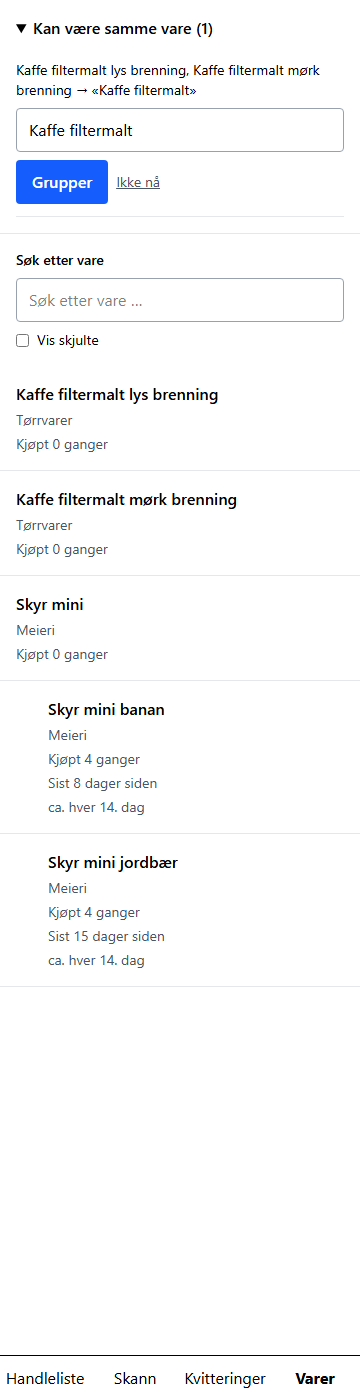
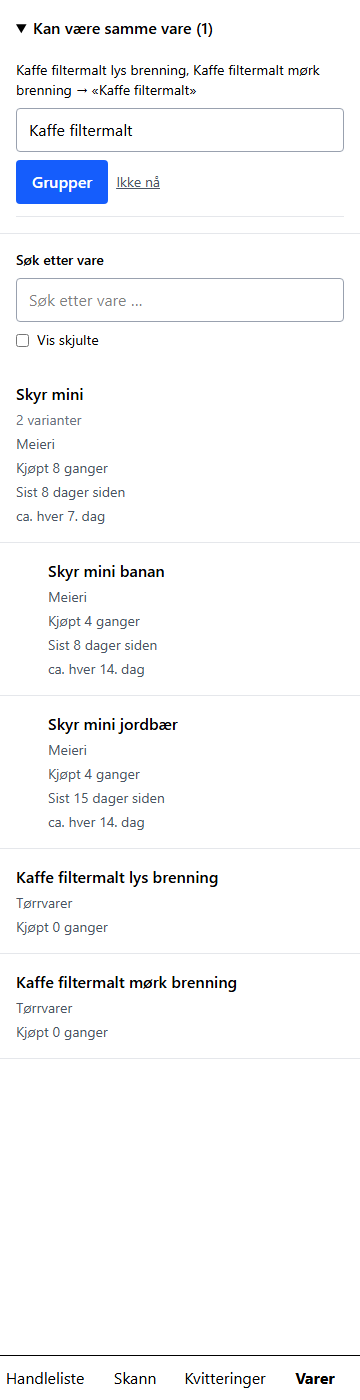
fix(products): fold a parent's summary stats; map every variant name (T40 review F1/F2)
F1: the propose parser's variant-name-to-parent rewrite only ran when
the model sent productId: null, but the model is only ever given the
parent's id, so productId: parentId with the variant's own name is the
likelier shape a model recovers from context. The lookup now runs for
every item regardless of what productId came with it.

F2: GET /api/products and topProducts reported a parent's own lines as
its timesBought/lastBought/medianIntervalDays, so a group ranked below
its own variants and, once the parent had lines of its own, a habit
could be counted twice. loadProductStatsMap now takes a parentOf map
and folds a parent's entry (its own purchases plus every child's, even
with none of its own) while a child keeps its own; topProducts leaves
children out entirely. GET /api/products/:id's own top-level fields are
unchanged (still the parent's own lines) since groupStats already
carries the folded total there. The products page shows "n varianter"
under a parent's name.

Retook docs/reviews/screenshots/T40/03-group-candidates.png: the parent
now ranks first with its folded count instead of "Kjøpt 0 ganger".

Claude-Session: https://claude.ai/code/session_01LbcodsQxsNDR6cS1v9zKWj

diff --git a/src/server/domain/productStats.ts b/src/server/domain/productStats.ts
@@ -37,8 +37,16 @@ export function computeProductStats(purchaseDates: string[]): ProductStats {
   };
 }
 
-/** One query for every product's purchase dates, for a product list instead of one query each. */
-export function loadProductStatsMap(db: AppDatabase): Map<number, ProductStats> {
+/**
+ * One query for every product's purchase dates, for a product list instead of one query each.
+ * With `parentOf` (T40, ADR-0019), a parent's entry is the group's folded stats — its own
+ * purchases plus every child's, even when the parent has none of its own — while a child keeps
+ * its own entry unchanged; an ungrouped product is unaffected either way.
+ */
+export function loadProductStatsMap(
+  db: AppDatabase,
+  parentOf: ReadonlyMap<number, number> = new Map(),
+): Map<number, ProductStats> {
   const rows = db
     .select({ productId: receiptLines.productId, date: receipts.purchasedAt })
     .from(receiptLines)
@@ -47,18 +55,30 @@ export function loadProductStatsMap(db: AppDatabase): Map<number, ProductStats> 
     .all();
 
   const datesByProduct = new Map<number, string[]>();
+  const foldedDatesByFoldKey = new Map<number, string[]>();
   for (const row of rows) {
     if (row.productId === null) {
       continue;
     }
+    const date = row.date as string;
     const dates = datesByProduct.get(row.productId) ?? [];
-    dates.push(row.date as string);
+    dates.push(date);
     datesByProduct.set(row.productId, dates);
+
+    const foldKey = parentOf.get(row.productId) ?? row.productId;
+    const foldedDates = foldedDatesByFoldKey.get(foldKey) ?? [];
+    foldedDates.push(date);
+    foldedDatesByFoldKey.set(foldKey, foldedDates);
   }
 
   const statsByProduct = new Map<number, ProductStats>();
   for (const [productId, dates] of datesByProduct) {
     statsByProduct.set(productId, computeProductStats(dates));
+  }
+  // Overwrites a parent's own-only entry above with the group's folded one (and adds an entry for
+  // a parent with no purchases of its own); a child is never a fold key, so its own entry stands.
+  for (const [foldKey, dates] of foldedDatesByFoldKey) {
+    statsByProduct.set(foldKey, computeProductStats(dates));
   }
   return statsByProduct;
 }

diff --git a/src/server/routes/products.ts b/src/server/routes/products.ts
@@ -1,5 +1,5 @@
 import type { FastifyInstance } from 'fastify';
-import { and, desc, eq, inArray, like } from 'drizzle-orm';
+import { and, desc, eq, inArray } from 'drizzle-orm';
 import { z } from 'zod';
 import {
   attachProductParentSchema,
@@ -162,26 +162,27 @@ export default async function productsRoutes(app: FastifyInstance): Promise<void
   app.get('/api/products', async (request) => {
     const query = listQuerySchema.parse(request.query);
 
-    const conditions = [
-      query.q !== undefined
-        ? like(products.nameNormalized, `%${normalizeText(query.q)}%`)
-        : undefined,
-      query.includeSuppressed === 'true' ? undefined : eq(products.suppressed, 0),
-    ].filter((condition) => condition !== undefined);
+    // Unfiltered, then filtered in JS (household scale, at most two SQL statements either way):
+    // folding a parent's stats needs every child's id system-wide, not only the ones that happen
+    // to also match the current search text (T40, ADR-0019, F2).
+    const allRows = app.db.select().from(products).all();
+    const normalizedQuery = query.q !== undefined ? normalizeText(query.q) : undefined;
+    const includeSuppressed = query.includeSuppressed === 'true';
+    const rows = allRows.filter(
+      (row) =>
+        (includeSuppressed || row.suppressed === 0) &&
+        (normalizedQuery === undefined || row.nameNormalized.includes(normalizedQuery)),
+    );
 
-    const rows = app.db
-      .select()
-      .from(products)
-      .where(conditions.length > 0 ? and(...conditions) : undefined)
-      .all();
-
-    const statsByProduct = loadProductStatsMap(app.db);
+    const parentOf = new Map<number, number>();
     const variantCounts = new Map<number, number>();
-    for (const row of rows) {
+    for (const row of allRows) {
       if (row.parentId !== null) {
+        parentOf.set(row.id, row.parentId);
         variantCounts.set(row.parentId, (variantCounts.get(row.parentId) ?? 0) + 1);
       }
     }
+    const statsByProduct = loadProductStatsMap(app.db, parentOf);
 
     const sorted = rows
       .map((row) =>

diff --git a/test/server/products.test.ts b/test/server/products.test.ts
@@ -197,6 +197,52 @@ describe('GET /api/products', () => {
     expect(response.statusCode).toBe(200);
     expect(statements.length).toBeLessThanOrEqual(2);
   });
+
+  it("shows a parent with the group's folded stats and a child with its own (T40 F2)", async () => {
+    app = createTestApp();
+    cookie = await loginCookie(app);
+    const parent = insertProduct('Skyr mini');
+    const jordbaer = insertProduct('Skyr mini jordbær', { parentId: parent });
+    const banan = insertProduct('Skyr mini banan', { parentId: parent });
+    const r1 = insertReceipt('2026-08-01');
+    insertLine(r1, jordbaer);
+    const r2 = insertReceipt('2026-08-08');
+    insertLine(r2, banan);
+
+    const response = await app.inject({ method: 'GET', url: '/api/products', headers: { cookie } });
+
+    const body = response.json();
+    expect(body.find((p: { id: number }) => p.id === parent)).toMatchObject({
+      timesBought: 2,
+      lastBought: '2026-08-08',
+    });
+    expect(body.find((p: { id: number }) => p.id === jordbaer)).toMatchObject({
+      timesBought: 1,
+      lastBought: '2026-08-01',
+    });
+    expect(body.find((p: { id: number }) => p.id === banan)).toMatchObject({
+      timesBought: 1,
+      lastBought: '2026-08-08',
+    });
+  });
+
+  it("folds a parent's stats even when a matching search excludes its children (T40 F2)", async () => {
+    app = createTestApp();
+    cookie = await loginCookie(app);
+    const parent = insertProduct('Skyr mini');
+    // Deliberately unrelated to the parent's name, so a search for the parent's name excludes it.
+    const child = insertProduct('Fruktyoghurt banan', { parentId: parent });
+    const r1 = insertReceipt('2026-08-01');
+    insertLine(r1, child);
+
+    const response = await app.inject({
+      method: 'GET',
+      url: `/api/products?${new URLSearchParams({ q: 'Skyr mini' }).toString()}`,
+      headers: { cookie },
+    });
+
+    expect(response.json()).toEqual([expect.objectContaining({ id: parent, timesBought: 1 })]);
+  });
 });
 
 describe('GET /api/products/:id', () => {

diff --git a/test/server/llm/proposeList.test.ts b/test/server/llm/proposeList.test.ts
@@ -259,6 +259,36 @@ describe('runProposal', () => {
     expect(result.items).toEqual([expect.objectContaining({ productId: 1, name: 'Skyr mini' })]);
   });
 
+  it('maps a variant name to the parent name even when productId is already the parent (F1)', async () => {
+    const llm = new FakeLlmClient([
+      completion([{ ...validItem, productId: 1, name: 'Skyr mini jordbær' }]),
+    ]);
+    const ctx = context({
+      products: [
+        product({ id: 1, name: 'Skyr mini', variants: ['Skyr mini jordbær', 'Skyr mini banan'] }),
+      ],
+    });
+
+    const result = await runProposal(llm, ctx, 9);
+
+    expect(result.items).toEqual([expect.objectContaining({ productId: 1, name: 'Skyr mini' })]);
+  });
+
+  it('leaves a group named directly (not by a variant name) unchanged', async () => {
+    const llm = new FakeLlmClient([
+      completion([{ ...validItem, productId: 1, name: 'Skyr mini' }]),
+    ]);
+    const ctx = context({
+      products: [
+        product({ id: 1, name: 'Skyr mini', variants: ['Skyr mini jordbær', 'Skyr mini banan'] }),
+      ],
+    });
+
+    const result = await runProposal(llm, ctx, 9);
+
+    expect(result.items).toEqual([expect.objectContaining({ productId: 1, name: 'Skyr mini' })]);
+  });
+
   it('filters a variant name like its parent when the parent is on the list (T40)', async () => {
     const llm = new FakeLlmClient([
       completion([{ ...validItem, productId: null, name: 'Skyr mini jordbær' }]),

diff --git a/test/server/stats.test.ts b/test/server/stats.test.ts
@@ -208,6 +208,26 @@ describe('GET /api/stats/summary', () => {
     expect(response.json().topProducts).toHaveLength(10);
   });
 
+  it('counts a group once with its folded stats, leaving both variants out (T40 F2)', async () => {
+    app = createTestApp({ now: () => new Date(NOW) });
+    cookie = await loginCookie(app);
+    const parent = insertProduct('Skyr mini');
+    const jordbaer = insertProduct('Skyr mini jordbær', { parentId: parent });
+    const banan = insertProduct('Skyr mini banan', { parentId: parent });
+    insertLine(insertReceipt({ purchasedAt: '2026-01-05', totalOre: 100 }), jordbaer);
+    insertLine(insertReceipt({ purchasedAt: '2026-01-12', totalOre: 100 }), banan);
+
+    const response = await app.inject({
+      method: 'GET',
+      url: '/api/stats/summary?months=1',
+      headers: { cookie },
+    });
+
+    const topProducts = response.json().topProducts as { id: number }[];
+    expect(topProducts.map((product) => product.id)).toEqual([parent]);
+    expect(topProducts[0]).toMatchObject({ timesBought: 2, lastBought: '2026-01-12' });
+  });
+
   it('sums proposals, proposed items and accepted items across every proposal (T37)', async () => {
     app = createTestApp({ now: () => new Date(NOW) });
     cookie = await loginCookie(app);

diff --git a/src/server/routes/stats.ts b/src/server/routes/stats.ts
@@ -130,15 +130,20 @@ export default async function statsRoutes(
     // All-time, not scoped to `months`: Product's own fields already mean all-time everywhere
     // else in the app (the products list, the product page), so a second, window-scoped
     // `timesBought` here would show a different number for the same product depending on screen.
-    const statsByProduct = loadProductStatsMap(app.db);
     const allProducts = app.db.select().from(products).all();
+    const parentOf = new Map<number, number>();
     const variantCounts = new Map<number, number>();
     for (const product of allProducts) {
       if (product.parentId !== null) {
+        parentOf.set(product.id, product.parentId);
         variantCounts.set(product.parentId, (variantCounts.get(product.parentId) ?? 0) + 1);
       }
     }
+    const statsByProduct = loadProductStatsMap(app.db, parentOf);
+    // A variant is left out (T40, ADR-0019, F2): its purchases already count under its parent's
+    // folded stats, so a child's own line here would count the same habit twice.
     const topProducts = allProducts
+      .filter((product) => product.parentId === null)
       .map((product) =>
         toProduct(
           product,

diff --git a/src/client/pages/ProductsPage.tsx b/src/client/pages/ProductsPage.tsx
@@ -14,6 +14,10 @@ function timesBoughtLabel(count: number): string {
   return count === 1 ? 'Kjøpt 1 gang' : `Kjøpt ${count} ganger`;
 }
 
+function variantCountLabel(count: number): string {
+  return count === 1 ? '1 variant' : `${count} varianter`;
+}
+
 function candidateKey(productIds: number[]): string {
   return [...productIds].sort((a, b) => a - b).join(',');
 }
@@ -55,6 +59,9 @@ function ProductRow({
             </span>
           )}
         </div>
+        {product.variantCount > 0 && (
+          <span className="text-sm text-gray-500">{variantCountLabel(product.variantCount)}</span>
+        )}
         <span className="text-sm text-gray-600">{product.category ?? 'Annet'}</span>
         {parentName !== null && !indented && (
           <span className="text-sm text-gray-500">variant av {parentName}</span>

diff --git a/test/client/ProductsPage.test.tsx b/test/client/ProductsPage.test.tsx
@@ -182,6 +182,18 @@ describe('ProductsPage', () => {
   });
 
   describe('product groups (T40)', () => {
+    it("shows a parent's variant count under its name (F2)", () => {
+      mockProducts([
+        product({ id: 1, name: 'Skyr mini', variantCount: 2, timesBought: 8 }),
+        product({ id: 2, name: 'Skyr mini banan', parentId: 1 }),
+      ]);
+
+      renderProductsPage();
+
+      expect(screen.getByText('2 varianter')).toBeInTheDocument();
+      expect(screen.queryByText('1 variant')).not.toBeInTheDocument();
+    });
+
     it('indents a child directly under its parent when both are in the result', () => {
       mockProducts([
         product({ id: 1, name: 'Skyr mini', variantCount: 1 }),

diff --git a/src/server/llm/proposeList.ts b/src/server/llm/proposeList.ts
@@ -141,12 +141,10 @@ export async function runProposal(
   for (const item of parsed.data.items) {
     let productId = item.productId;
     let name = item.name;
-    if (productId === null) {
-      const parentId = childNameToParentId.get(normalizeText(name));
-      if (parentId !== undefined) {
-        productId = parentId;
-        name = productsById.get(parentId)?.name ?? name;
-      }
+    const parentId = childNameToParentId.get(normalizeText(name));
+    if (parentId !== undefined) {
+      productId = parentId;
+      name = productsById.get(parentId)?.name ?? name;
     }
 
     if (productId !== null && !productsById.has(productId)) {

diff --git a/docs/architecture.md b/docs/architecture.md
@@ -365,7 +365,8 @@ Definitions:
 - `receipts.shopping_list_id` links a receipt to the list it was bought for (T39, ADR-0018); several receipts can belong to one list, a receipt to at most one list. Set automatically by `findTripList` (`src/server/domain/tripLink.ts`) when a receipt reaches `done` or a list is completed, and overridable on the receipt page. The outcome (`Trip`, `src/server/domain/trip.ts`) is computed from the list's items and the linked receipts' lines on every read, never stored.
 - `products.parent_id` groups a product's variants under it (T40, ADR-0019), depth exactly one: a product with a parent cannot itself be a parent, and a product with children cannot get a parent, both enforced in the route handlers.
   A parent is an ordinary product and may have receipt lines of its own.
-  `foldHistories` (`src/server/domain/productGroups.ts`) sums children's purchases into the parent's `ProductHistory` before the suggestion engine, refresh, dismissals or the AI proposal context see it; a receipt, its lines, aliases and a product's own stats always keep the variant.
+  `foldHistories` (`src/server/domain/productGroups.ts`) sums children's purchases into the parent's `ProductHistory` before the suggestion engine, refresh, dismissals or the AI proposal context see it; a receipt, its lines, aliases and `ProductDetail.purchases` always keep the variant.
+  A parent's summary stats (`timesBought`, `lastBought`, `medianIntervalDays` on `Product`, in the products list and `topProducts`) are the group's folded total, not the parent's own lines, so the group ranks by its combined habit instead of under its own variants and a habit is not counted twice; a child keeps its own summary stats (T40 review F2).
   Grouping and ungrouping happen only through `POST`/`DELETE /api/products/:id/parent` and `POST /api/product-groups`, never automatically; deleting a parent (through merge) sets its children's `parent_id` back to null.
 - `PRODUCT_CATEGORIES` is the fixed list: `Frukt og grønt`, `Meieri`, `Kjøtt og fisk`, `Brød og bakevarer`, `Tørrvarer`, `Frossen`, `Drikke`, `Snacks`, `Husholdning`, `Hygiene`, `Annet`.
 - Migrations run with `foreign_keys` off and `PRAGMA foreign_key_check` after, because drizzle's SQLite table recreates would otherwise cascade-delete child rows.
@@ -611,6 +612,8 @@ type ReceiptDetail = ReceiptSummary & {
 
 type Product = {
   id: number; name: string; category: string | null; suppressed: boolean;
+  // For a parent (variantCount > 0), these three are the group's folded stats, not the parent's
+  // own lines; a child (parentId set) reports its own, same as an ungrouped product (T40 review F2).
   timesBought: number; lastBought: string | null; medianIntervalDays: number | null;
   parentId: number | null; variantCount: number;
 };
@@ -668,7 +671,7 @@ type ShoppingListProposal = {
 | `PATCH /api/receipt-lines/:id` | `{ productId }`, `{ newProductName, category? }` or `{ totalOre?, quantity?, unitPriceOre?, kind? }` (at least one field) | `200 ReceiptLine` | The product bodies upsert a user alias and remove `UNMATCHED_LINES` from the receipt when no item line has `product_id IS NULL`; `MATCHING_FAILED` is left alone. The fields body recomputes both `TOTAL_MISMATCH` and `UNMATCHED_LINES` the same way, leaves every other warning alone, and is only accepted when the receipt is `done` (else `409`); `totalOre` must be at most 0 for a `discount` and at least 0 otherwise, checked against the resulting kind; changing `kind` away from `item` clears `product_id` and `match_source`, changing it to `item` leaves `product_id` null. |
 | `DELETE /api/receipt-lines/:id` | — | `204` | Only when the receipt is `done`, else `409`. `line_no` of the remaining lines is left as is. Recomputes `TOTAL_MISMATCH` and `UNMATCHED_LINES` the same way the fields `PATCH` does. |
 | `GET /api/products?q=&includeSuppressed=` | — | `200 Product[]` | `q` filters on `name_normalized` contains `normalizeText(q)`. Ordered by `timesBought` desc, then name; a child sorts directly after its parent when both are in the result (T40). |
-| `GET /api/products/:id` | — | `200 ProductDetail` | `parent`/`variants`/`groupStats` T40; `groupStats` is `null` unless the product is a parent. |
+| `GET /api/products/:id` | — | `200 ProductDetail` | `parent`/`variants`/`groupStats` T40; `groupStats` is `null` unless the product is a parent. Unlike the products list and `topProducts`, `ProductDetail`'s own top-level `timesBought`/`lastBought`/`medianIntervalDays` stay the product's own lines even for a parent — `groupStats` carries the folded total instead, so a parent's page can show both (T40 review F2). |
 | `POST /api/products` | `{ name, category? }` | `201 Product` | `409` on duplicate normalized name. |
 | `PATCH /api/products/:id` | `{ name?, category?, suppressed? }` | `200 Product` | |
 | `POST /api/products/:id/merge` | `{ intoProductId }` | `200 Product` | Returns the target. `400` when ids are equal. Deleting a parent this way (the only delete path for a product with children) sets its former children's `parentId` to `null` (T40). |
@@ -705,8 +708,8 @@ type ShoppingListProposal = {
 | `/scan` | ScanPage | "Ta bilde" (`<input type="file" accept="image/*" capture="environment">`, one photo) and "Velg fra bilder" (same input without `capture`, `multiple`). Every selected file is downscaled and uploaded at once, one after the other in selection order, in a list with per-file state: "Laster opp … 45 %", "Lastet opp", "Allerede skannet" with a link to the existing receipt, or "Feilet: {message}". Below the list, "Skann (1)" or "Skann alle (n)" for every receipt with status `uploaded`; it calls scan for each and navigates to `/receipts/:id` when n is 1, else to `/receipts`. |
 | `/receipts` | ReceiptsPage | List with store, date as `4. sep. · 3 dager siden`, total, status badge and warning count; tap opens the receipt. "Skann" on each `uploaded` row and "Skann alle (n)" above the list. Between the "Skann alle" button and the list, a collapsed `<details>` "Statistikk og historikk" (Phase 2, T23): opened, it fetches `GET /api/stats/summary` and `GET /api/shopping-lists` and shows monthly totals as a plain bar list, "Mest kjøpt, alle kvitteringer" (all-time top 10 products), the shopping list history (week, item count, status, each row linking to its detail page and showing `12 av 14 kjøpt · 5 utenom` when `tripCounts` is set, T39) and, since T37, `AI-forslag` (proposals, proposed, accepted, bought) and `Handleturer` (completed lists, of which with receipt, share of planned items bought, unplanned items per trip, T39) — `aiProposals` has been in the API since T37 but was not rendered anywhere until this task; closed, neither request fires, so the everyday visit costs nothing extra. |
 | `/receipts/:id` | ReceiptPage | While `uploaded`: image thumbnail, "Skann" and "Slett kvittering". While `pending`/`processing`: image thumbnail and `I kø…`/`Leser kvittering…` with the seconds since `updatedAt` (not since the component mounted, T30), ticking, with polling. When `failed`: error, "Prøv igjen" (calls scan) and "Slett kvittering" (T30). When `done`: editable header (store, date, total), a `Handleliste` select under it (`Ingen` and the eight most recent `done` lists as `Uke 37, fullført 7. sep`, saved through `PATCH`, with a note `Knyttes automatisk når datoene stemmer`; when linked, a `Handleliste uke 37` link instead), warning chips (the `POSSIBLE_DUPLICATE` chip links to the other receipt), the receipt image in a sticky, scrollable panel: toggled with `Vis bilde` on a phone, always beside the lines on desktop, tap opens the full image (T35), lines with product picker per item line; each line's amount and kind can be corrected and a line deleted, warnings recompute; "Ferdig" that sets `reviewed`. `Slett kvittering` (`uploaded`/`failed`/`done`) is one shared component: `window.confirm`, toast "Kvitteringen er slettet", navigate to `/receipts`. T39: the select. |
-| `/products` | ProductsPage | Search field, list with times bought, last bought, interval; toggle to show suppressed; a child renders indented under its parent when both are in the result, otherwise with a `variant av …` line under its name; a collapsed `Kan være samme vare (n)` block above the list when `GET /api/products/group-candidates` has candidates, each row naming its members and a suggested group name (editable) with `Grupper` to create the group and `Ikke nå` to hide it (remembered per candidate in `localStorage`, no server state). T40. |
-| `/products/:id` | ProductPage | Rename, category select, "Ikke foreslå" toggle, merge into another product (confirm text now also says `Er det varianter av samme vare, bruk Varegruppe i stedet.`), aliases with delete, purchase history. A `Varegruppe` section between "Ikke foreslå" and "Alias": ungrouped shows `Legg i gruppe…` through the existing `ProductPicker` (choosing a parent attaches; choosing another ungrouped product opens a `Navn på varegruppen` dialog and calls `POST /api/product-groups`; the picker's `Opprett «…»` creates a new parent with this product as its only member); a variant shows `Variant av «<parent>»` as a link and `Fjern fra gruppen`; a parent shows `Varianter (n)` as links with each variant's own count and last-bought date, and the group's folded `groupStats` line, with no `Legg i gruppe`. T40. |
+| `/products` | ProductsPage | Search field, list with times bought, last bought, interval; toggle to show suppressed; a parent additionally shows `n varianter` under its name, and its times-bought line is the group's folded total (T40 review F2); a child renders indented under its parent when both are in the result, otherwise with a `variant av …` line under its name; a collapsed `Kan være samme vare (n)` block above the list when `GET /api/products/group-candidates` has candidates, each row naming its members and a suggested group name (editable) with `Grupper` to create the group and `Ikke nå` to hide it (remembered per candidate in `localStorage`, no server state). T40. |
+| `/products/:id` | ProductPage | Rename, category select, "Ikke foreslå" toggle, merge into another product (confirm text now also says `Er det varianter av samme vare, bruk Varegruppe i stedet.`), aliases with delete, purchase history. A `Varegruppe` section between "Ikke foreslå" and "Alias": ungrouped shows `Legg i gruppe…`, a page-local search-and-pick component (`GroupPicker`, styled like the existing `MergeSearch` on this page rather than reusing `ProductPicker`, which is tied to receipt-line matching) — choosing a parent attaches directly; choosing another ungrouped product opens a `Navn på varegruppen` dialog and calls `POST /api/product-groups`; typing a name with no match offers `Opprett «…»`, creating a new parent with this product as its only member. A variant shows `Variant av «<parent>»` as a link and `Fjern fra gruppen`; a parent shows `Varianter (n)` as links with each variant's own count and last-bought date, and the group's folded `groupStats` line, with no `Legg i gruppe`. T40. |
 
 Bottom navigation: Handleliste (`/`), Skann (`/scan`), Kvitteringer (`/receipts`), Varer (`/products`).
 
